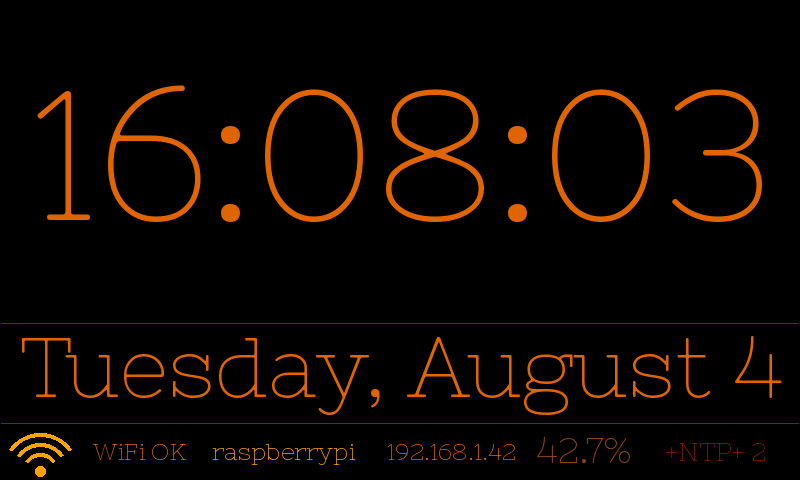
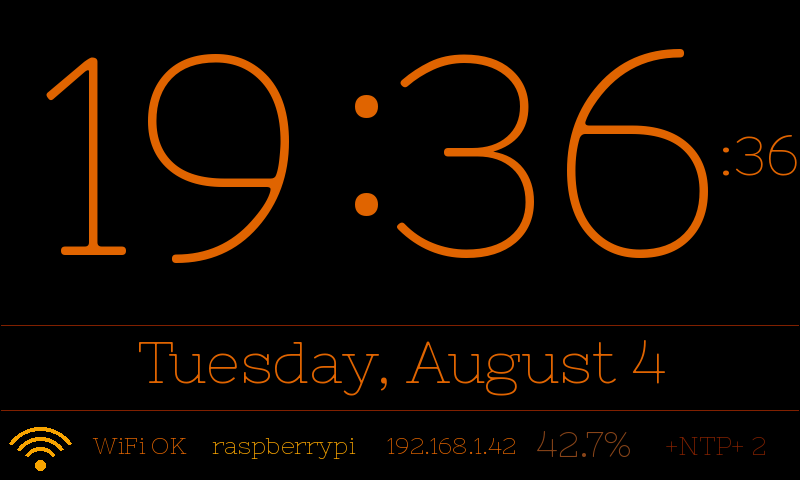
Refresh previews, update real-life photos, update README

diff --git a/README.md b/README.md
@@ -5,10 +5,12 @@ It supports multiple "panel" widgets that can show time, date, weather, and more
 
 Unique in the universe?  Doubtful.  But I had fun making it.
 
-Here's a photo of two raspberry pi's running clockish in portrait and landscape orientations.
-The left side one is running the default `clockish.yaml` config, and right side is running `landscape-demo.yaml`.
+Here are photos of Raspberry Pi original, zero, zero2w, 2b, 4b, 5 all running clockish with various displays.
+All of these layouts are in the config examples and previews below!
 
-![clockish_in_real_life.jpeg](docs/clockish_in_real_life.jpeg)
+<a href="docs/clockish_in_real_life.jpeg"><img height="200" src="docs/clockish_in_real_life.jpeg" alt="clockish in real life"/></a>
+<a href="docs/more-clocks.jpeg"><img height="200" src="docs/more-clocks.jpeg" alt="more-clocks"/></a>
+<a href="docs/lots-o-clocks.jpeg"><img height="200" src="docs/lots-o-clocks.jpeg" alt="lots-o-clocks"/></a>
 
 
 ---
@@ -26,8 +28,8 @@ The left side one is running the default `clockish.yaml` config, and right side 
 
 ## Overview
 
-Clockish drives a small ILI9486-based SPI LCD (the common 3.5" Raspberry Pi display) as a
-config-driven dashboard. The layout is defined entirely in YAML: you describe rows of panels,
+Clockish drives a display as a config-driven dashboard. 
+The layout is defined entirely in YAML: you describe rows of panels,
 and each panel shows one thing — a clock, date, system fact, Wi-Fi signal graphic, divider,
 or static text. Multiple timezones, font sizes, colors, and panel widths are all controlled
 from config with no code changes required.
@@ -35,7 +37,14 @@ from config with no code changes required.
 Target hardware: Raspberry Pi ( original thru pi5, zeros on armv6l, armv7l / aarch64).
 Target OS: Raspberry Pi OS or Ubuntu, 32 or 64 bit.
 Tested displays:
-  - 3.5" ILI9486-based SPI LCD (480x320, 16-bit color).
+- 3.5" ILI9486-based SPI LCD (480x320, 16-bit color).
+- 1.1" Mini PiTFT (ST7789, 240x135, 16-bit color).
+- 1.3" Mini PiTFT (ST7789, 240x240, 16-bit color).
+- Linux Framebuffer (any size, any resolution, any color depth):
+  - DSI displays (like 5" and 7" Waveshare panels or others found on Amazon)
+  - DSI displays (like 7" and 10" Raspberry Pi DSI panels)
+  - HDMI displays or your TV
+
 
 ---
 
@@ -43,7 +52,8 @@ Tested displays:
 
 - Python 3.11 or newer
 - Raspberry Pi OS Bookworm / Ubuntu 22.04+ (for hardware features)
-- On Windows: most features work in a normal venv; GPIO / I²C stubs are skipped
+- Almost any display with a PIL-compatible driver (ST7789, ILI9486, DSI, HDMI, etc.)
+- Develop on Linux/Mac/Windows: most features work in a normal venv; GPIO / I²C stubs are skipped
 
 ---
 
